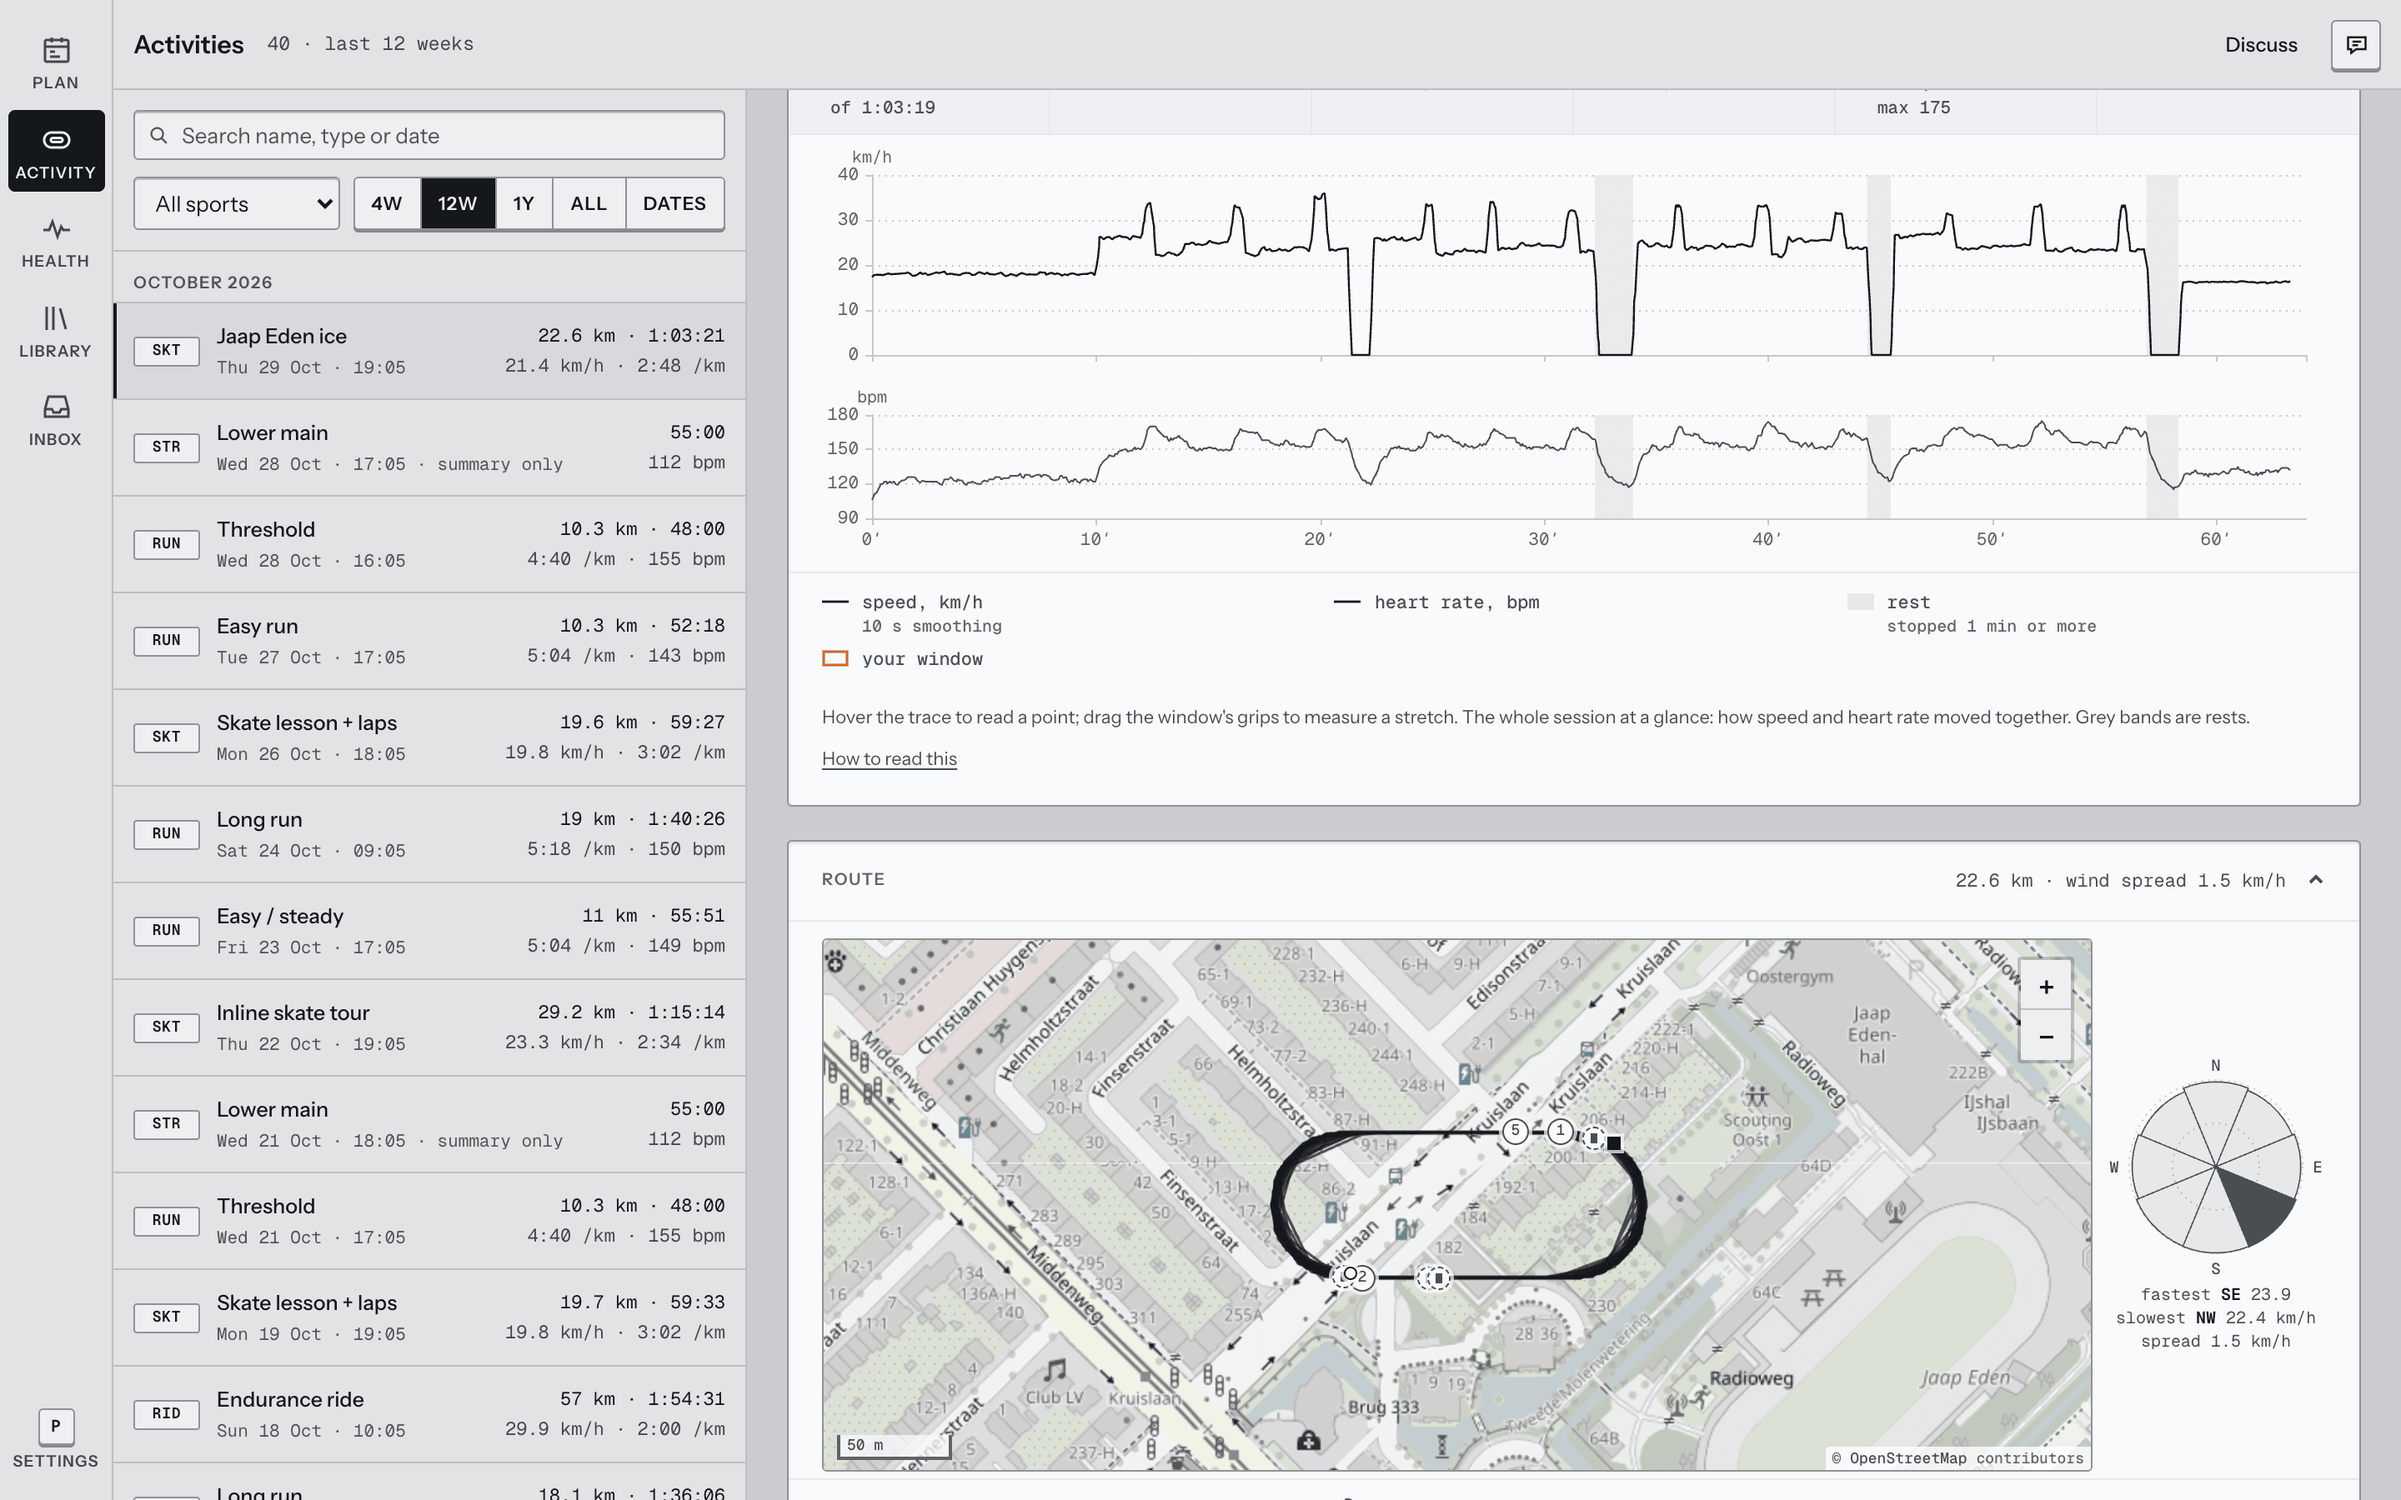
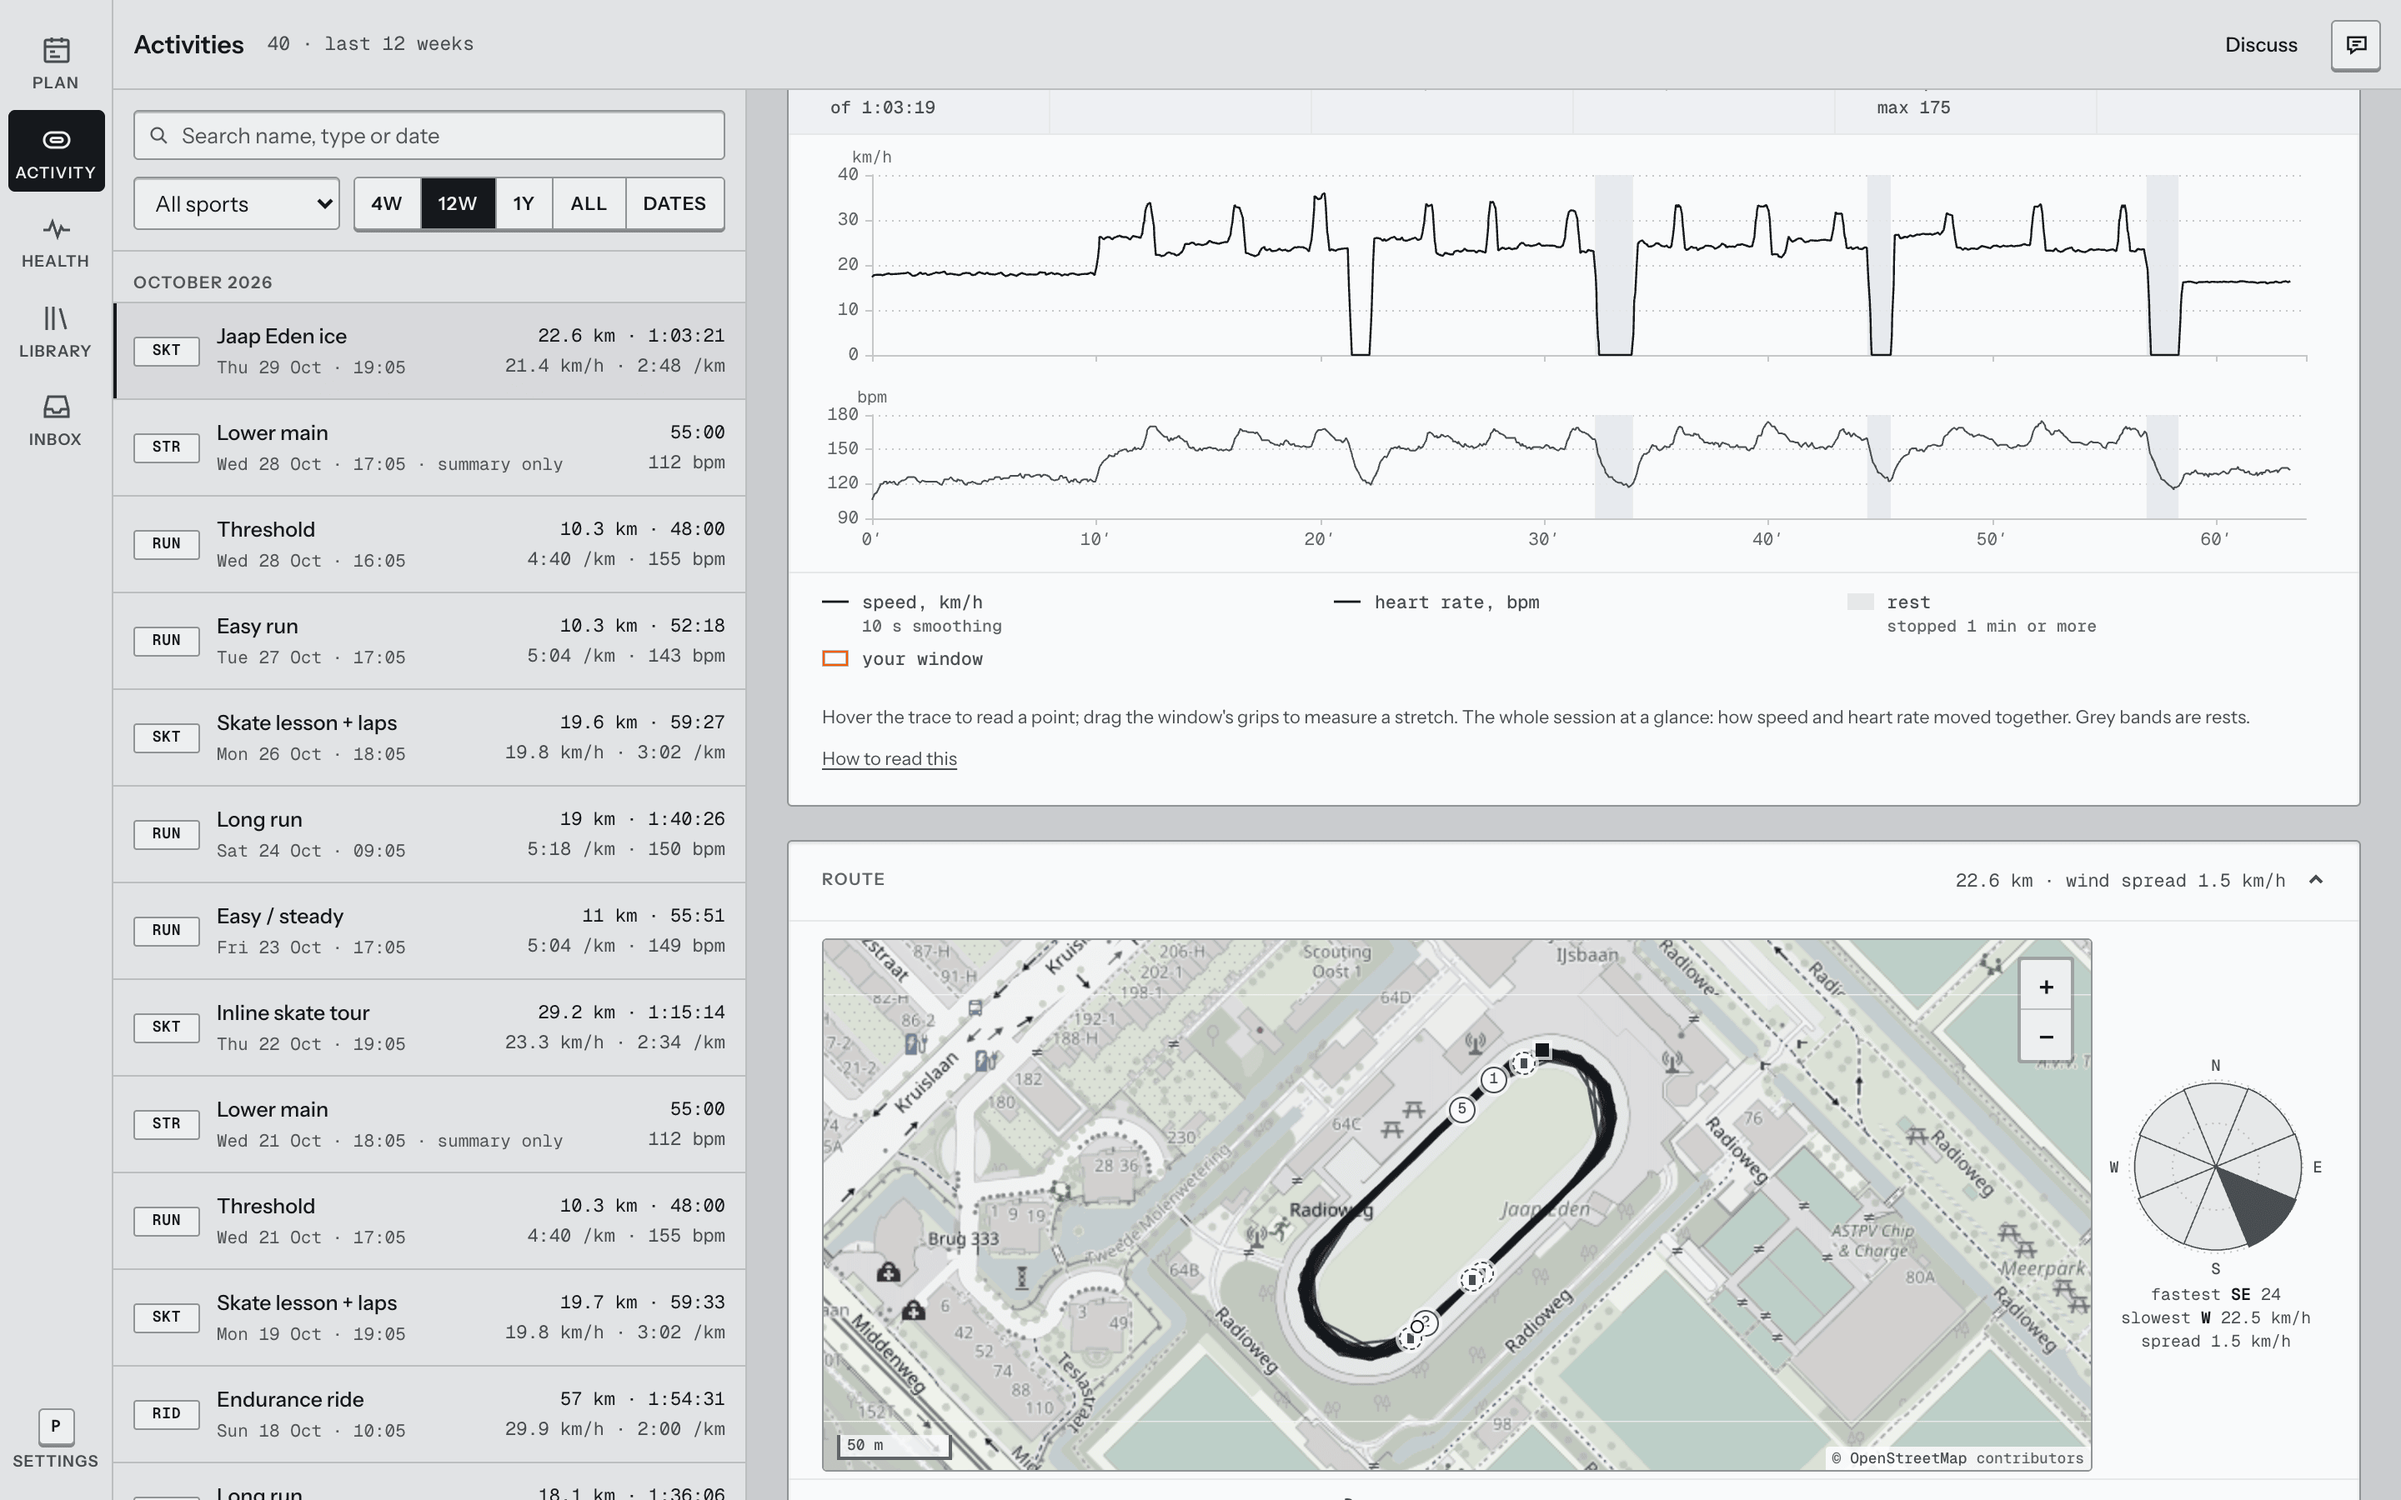
fix(demo): put the demo ice session on the Jaap Eden oval

Changed region(s): [[0.3438, 0.6222, 0.9688, 0.9956]]

diff --git a/backend/garmin/demo_export.py b/backend/garmin/demo_export.py
@@ -9,7 +9,8 @@ Recordings follow a weekly shape: an inline skate lesson on a 400 m track (Mon),
 (Tue), threshold + gym (Wed), an outdoor inline skate tour or an ice skate on a 400 m oval
 (Thu, alternating weeks), a steady run (Fri), a long run (Sat) and a ride with power (Sun).
 Runs, rides and tours follow synthetic GPS loops with hills; speed reacts to the grade,
-skates and rides carry sprint stretches and stops. The positions are a made-up place.
+skates and rides carry sprint stretches and stops. The positions are a made-up place, except
+the ice session, which sits on the real Jaap Eden oval in Amsterdam.
 
     uv run python -m garmin.demo_export out.zip --days 140 --end 2026-09-28
 """
@@ -28,7 +29,11 @@ from typing import Callable
 
 EPOCH = datetime(1970, 1, 1, tzinfo=timezone.utc)
 HOME = (52.0907, 5.1214)  # demo origin
-JAAP_EDEN = (52.3486, 4.9419)  # the outdoor 400 m oval in Amsterdam the athlete skates on
+# The outdoor 400 m oval in Amsterdam the athlete skates on: centre of the ice, compass bearing
+# of the straights (they run NE–SW) and the skated line (110 m straights, 400 m per lap).
+JAAP_EDEN = (52.34794, 4.94460)
+JAAP_EDEN_BEARING = 46.0
+JAAP_EDEN_STRAIGHT = 110.0
 Route = Callable[[float], tuple[float, float, float]]  # distance → (lat, lon, altitude)
 
 
@@ -70,23 +75,31 @@ def loop_route(perimeter_m: float, seed: int, *, origin: tuple[float, float] = H
     return at
 
 
-def oval_route(origin: tuple[float, float] = (52.0849, 5.1590), alt: float = 2.0) -> Route:
-    """A 400 m oval: two 100 m straights and two half circles of radius 100/π m."""
-    r = 100 / math.pi
+def oval_route(origin: tuple[float, float] = (52.0849, 5.1590), alt: float = 2.0, *, straight: float = 100.0,
+               bearing: float = 90.0, wander: float = 0.0) -> Route:
+    """A 400 m oval: two straights of `straight` m and two half circles closing the lap at 400 m,
+    centred on `origin` with the straights along compass `bearing`. `wander` (m) lets the line
+    drift sideways a little, as a skater's line and GPS do, without leaving the lane."""
+    r = (400 - 2 * straight) / (2 * math.pi)
+    h = straight / 2
+    b = math.radians(bearing)
+    along, side = (math.sin(b), math.cos(b)), (-math.cos(b), math.sin(b))  # (east, north)
 
     def at(d: float) -> tuple[float, float, float]:
+        w = wander * (math.sin(2 * math.pi * d / 530) + 0.5 * math.sin(2 * math.pi * d / 170)) / 1.5
         d %= 400
-        if d < 100:
-            x, y = -50 + d, -r
+        if d < straight:
+            x, y = -h + d, -r - w
         elif d < 200:
-            a = -math.pi / 2 + (d - 100) / r
-            x, y = 50 + r * math.cos(a), r * math.sin(a)
-        elif d < 300:
-            x, y = 50 - (d - 200), r
+            a = -math.pi / 2 + (d - straight) / r
+            x, y = h + (r + w) * math.cos(a), (r + w) * math.sin(a)
+        elif d < 200 + straight:
+            x, y = h - (d - 200), r + w
         else:
-            a = math.pi / 2 + (d - 300) / r
-            x, y = -50 + r * math.cos(a), r * math.sin(a)
-        return (*_to_deg(x, y, origin), alt)
+            a = math.pi / 2 + (d - 200 - straight) / r
+            x, y = -h + (r + w) * math.cos(a), (r + w) * math.sin(a)
+        east, north = x * along[0] + y * side[0], x * along[1] + y * side[1]
+        return (*_to_deg(east, north, origin), alt)
     return at
 
 
@@ -258,7 +271,7 @@ def build(days: int = 140, end: date | None = None, seed: int = 7, with_fit: boo
               "steady": loop_route(8200, 3), "track": loop_route(1000, 4, hills=((1, 500),)),
               "ride": loop_route(52000, 5, hills=((35, 9000), (12, 2600)), base_alt=55.0),
               "tour": loop_route(24000, 6, hills=((4, 4000),)), "oval": oval_route(),
-              "jaap": oval_route(JAAP_EDEN)}
+              "jaap": oval_route(JAAP_EDEN, straight=JAAP_EDEN_STRAIGHT, bearing=JAAP_EDEN_BEARING, wander=1.0)}
     for i in range(days):
         d = start + timedelta(days=i)
         wd = d.weekday()
